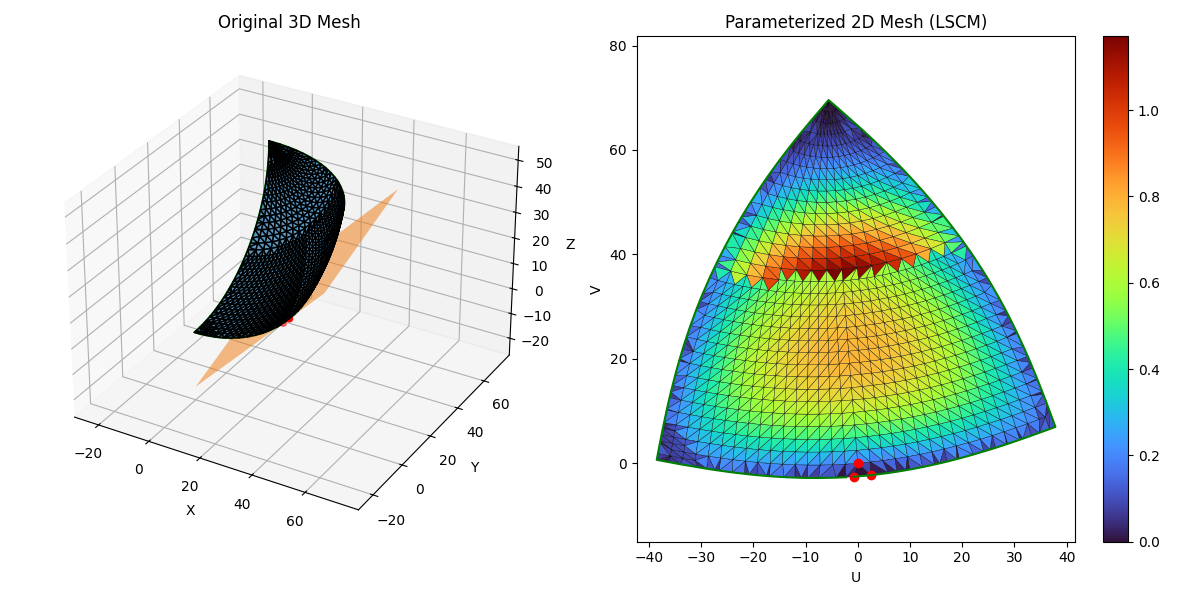
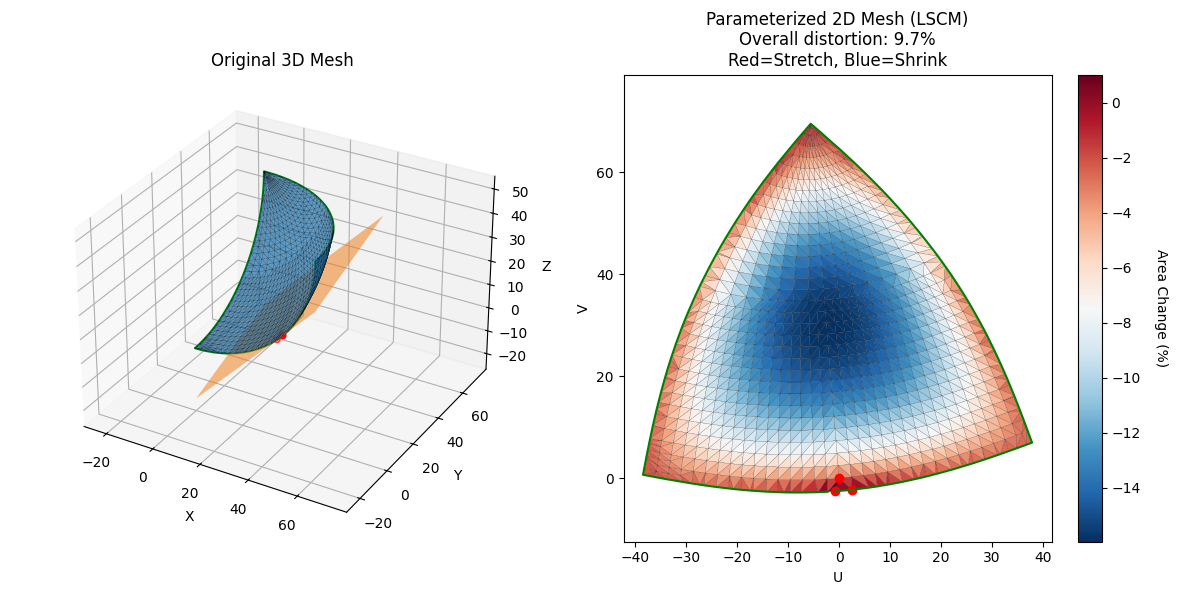
feat: improve visualization

diff --git a/flatten_surface/display.py b/flatten_surface/display.py
@@ -4,6 +4,7 @@ import numpy as np
 import matplotlib.pyplot as plt
 from matplotlib import cm
 from mpl_toolkits.mplot3d import Axes3D
+from .score import compute_overall_distortion
 
 
 def plot(vertices, faces, unwrap, init_points_pos, plan, init_points_ids, bounds, deformation, optimization_results=None):
@@ -23,7 +24,7 @@ def plot(vertices, faces, unwrap, init_points_pos, plan, init_points_ids, bounds
 
     # Original 3D mesh plot
     ax1 = fig.add_subplot(*subplot_layout, projection='3d')
-    ax1.plot_trisurf(vertices[:, 0], vertices[:, 1], vertices[:, 2], triangles=faces, edgecolor='k', alpha=0.7)
+    ax1.plot_trisurf(vertices[:, 0], vertices[:, 1], vertices[:, 2], triangles=faces, edgecolor='k', alpha=0.7, linewidth=0.1)
     ax1.plot_surface(grid[0], grid[1], (d - a * grid[0] - b * grid[1]) / c, alpha=0.5, rstride=100, cstride=100)
     ax1.scatter(*vertices[init_points_ids].T, color="red")
     [ax1.plot(*vertices[bound].T, color="green") for bound in bounds]
@@ -36,17 +37,21 @@ def plot(vertices, faces, unwrap, init_points_pos, plan, init_points_ids, bounds
     # 2D parameterized mesh plot
     subplot_layout = (1, 3 if optimization_results is not None else 2, 2)
     ax2 = fig.add_subplot(*subplot_layout)
-    sc = ax2.tripcolor(unwrap[:, 0], unwrap[:, 1], faces, edgecolors='k', facecolors=deformation, cmap=cm.turbo)
-    fig.colorbar(sc, ax=ax2)
+    sc = ax2.tripcolor(unwrap[:, 0], unwrap[:, 1], faces, edgecolors='k', facecolors=deformation, cmap=cm.RdBu_r, linewidth=0.1)
+    cbar = fig.colorbar(sc, ax=ax2)
+    cbar.set_label('Area Change (%)', rotation=270, labelpad=20)
     ax2.scatter(*init_points_pos.T, color="red")
     [ax2.plot(*unwrap[bound].T, color="green") for bound in bounds]
     ax2.set_aspect('equal')
     
+    # Calculate overall distortion percentage
+    overall_distortion_pct = compute_overall_distortion(deformation)
+    
     # Update title to show optimization results if available
     if optimization_results is not None:
-        title = f'Parameterized 2D Mesh (Optimized)\nImprovement: {optimization_results["improvement_percent"]:.1f}%'
+        title = f'Parameterized 2D Mesh\nOverall distortion: {overall_distortion_pct:.1f}%\nRed=Stretch, Blue=Shrink'
     else:
-        title = 'Parameterized 2D Mesh (LSCM)'
+        title = f'Parameterized 2D Mesh (LSCM)\nOverall distortion: {overall_distortion_pct:.1f}%\nRed=Stretch, Blue=Shrink'
     ax2.set_title(title)
     ax2.set_xlabel('U')
     ax2.set_ylabel('V')
@@ -86,7 +91,7 @@ def plot(vertices, faces, unwrap, init_points_pos, plan, init_points_ids, bounds
         
         ax3.set_xlabel('Optimization Attempt')
         ax3.set_ylabel('RMS Area Distortion')
-        ax3.set_title('Optimization Convergence')
+        ax3.set_title(f'Optimization Convergence\nImprovement: {optimization_results["improvement_percent"]:.1f}%')
         ax3.legend()
         ax3.grid(True, alpha=0.3)
         

diff --git a/flatten_surface/score.py b/flatten_surface/score.py
@@ -18,7 +18,7 @@ def compute_deformation(vertices, faces, unwrap):
     #                                         unfolded_edges[:, 1], axis=1)), -1.0, 1.0))
 
     original_areas = np.linalg.norm(np.cross(original_edges[:, 0], original_edges[:, 1]), axis=1)
-    unfolded_areas = np.cross(unfolded_edges[:, 0], unfolded_edges[:, 1])
+    unfolded_areas = np.abs(np.cross(unfolded_edges[:, 0], unfolded_edges[:, 1]))
     area_2d = np.sum(unfolded_areas)
     area_3d = np.sum(original_areas)
 
@@ -28,22 +28,10 @@ def compute_deformation(vertices, faces, unwrap):
     print(f"2D Area: {area_2d} mm²")
     print(f"Diff Area: {area_diff} mm²")
 
-    area_diff = original_areas - unfolded_areas
-    # angle_diff = unfolded_angles - original_angles
-    # length_diff = np.linalg.norm(np.abs(length_ratios - 1), axis=1)
+    # Calculate percentage area change: positive = stretching, negative = compression
+    area_change_percent = (unfolded_areas - original_areas) / original_areas * 100
 
-    area_distortion = np.abs(area_diff)
-    # angle_distortion = numpy.abs(angle_diff)
-    # length_distortion = numpy.abs(length_diff)
-
-    # area_lin = (area_distortion - min(area_distortion)) / (max(area_distortion) - min(area_distortion))
-    # angle_lin = (angle_distortion - min(angle_distortion)) / (max(angle_distortion) - min(angle_distortion))
-    # length_lin = (length_distortion - min(length_distortion)) / (max(length_distortion) - min(length_distortion))
-
-    # distortion = area_lin * angle_lin * length_lin
-    # distortion = 100 * (distortion - min(distortion)) / (max(distortion) - min(distortion))
-
-    return area_distortion
+    return area_change_percent
 
 
 def compute_overall_distortion(area_distortion):

diff --git a/Readme.md b/Readme.md
@@ -6,8 +6,8 @@ Flattens 3D STL surfaces into 2D patterns using LSCM (Least Squares Conformal Ma
 
 - **LSCM Parameterization**: Preserves angles while minimizing distortion
 - **Initial Point Optimization**: Automatically finds optimal starting points (10-50% distortion reduction)
-- **Distortion Analysis**: Visual heatmap showing area differences between 3D and 2D
-- **Multiple Output Formats**: PNG visualization and SVG export
+- **Distortion Analysis**: Visual heatmap showing percentage area change between 3D and 2D
+- **Multiple Output Formats**: PNG visualization, SVG and DXF export
 - **Interactive GUI**: File dialog for easy STL selection
 
 ## Installation
@@ -38,7 +38,7 @@ python main.py input.stl --face-id 25
 - `--optimize`: Enable distortion optimization (default: 50 attempts)
 - `--attempts N`: Number of optimization attempts 
 - `--face-id ID`: Specific face for initial points (ignored with `--optimize`)
-- `--output-png PATH`: Custom PNG output path
+- `--output-dxf PATH`: Custom DXF output path
 - `--output-svg PATH`: Custom SVG output path
 
 ## How It Works
@@ -53,9 +53,14 @@ python main.py input.stl --face-id 25
 
 **Metric**: RMS of per-triangle area differences: `sqrt(mean(|3D_area - 2D_area|²))`
 
-**Algorithm**: Brute force search over candidate faces (random + boundary-biased selection)
+**Practical Significance**: The overall distortion percentage indicates how much the 2D pattern differs from the original 3D surface. For fabric manufacturing, most materials can accommodate up to 4% distortion without significant issues. Higher values may result in:
+- Fabric puckering or stretching
+- Pattern pieces that don't fit properly when assembled
+- Visible distortion in the final product
 
-**Visualization**: 3-panel display showing original mesh, optimized result, and convergence plot
+**Color Visualization**: Red areas indicate stretching (positive %), blue areas indicate compression (negative %)
+
+**Algorithm**: Brute force search over candidate faces (random + boundary-biased selection)
 
 ## Output Quality
 
